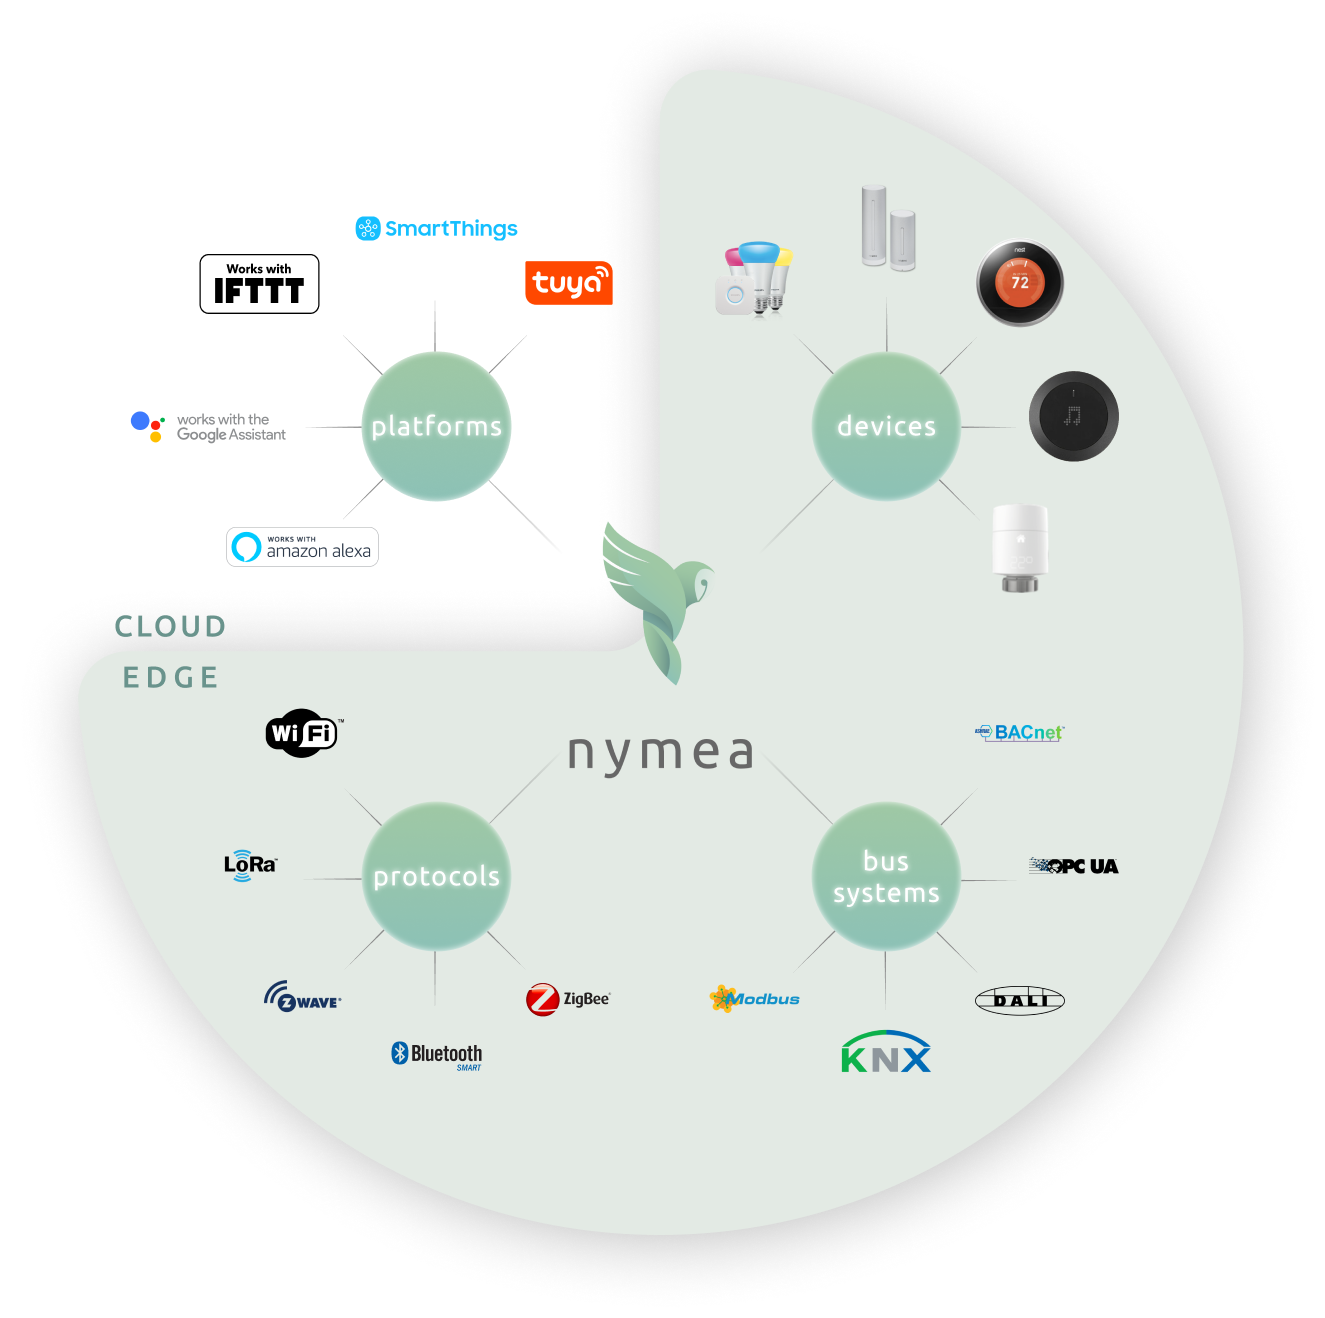
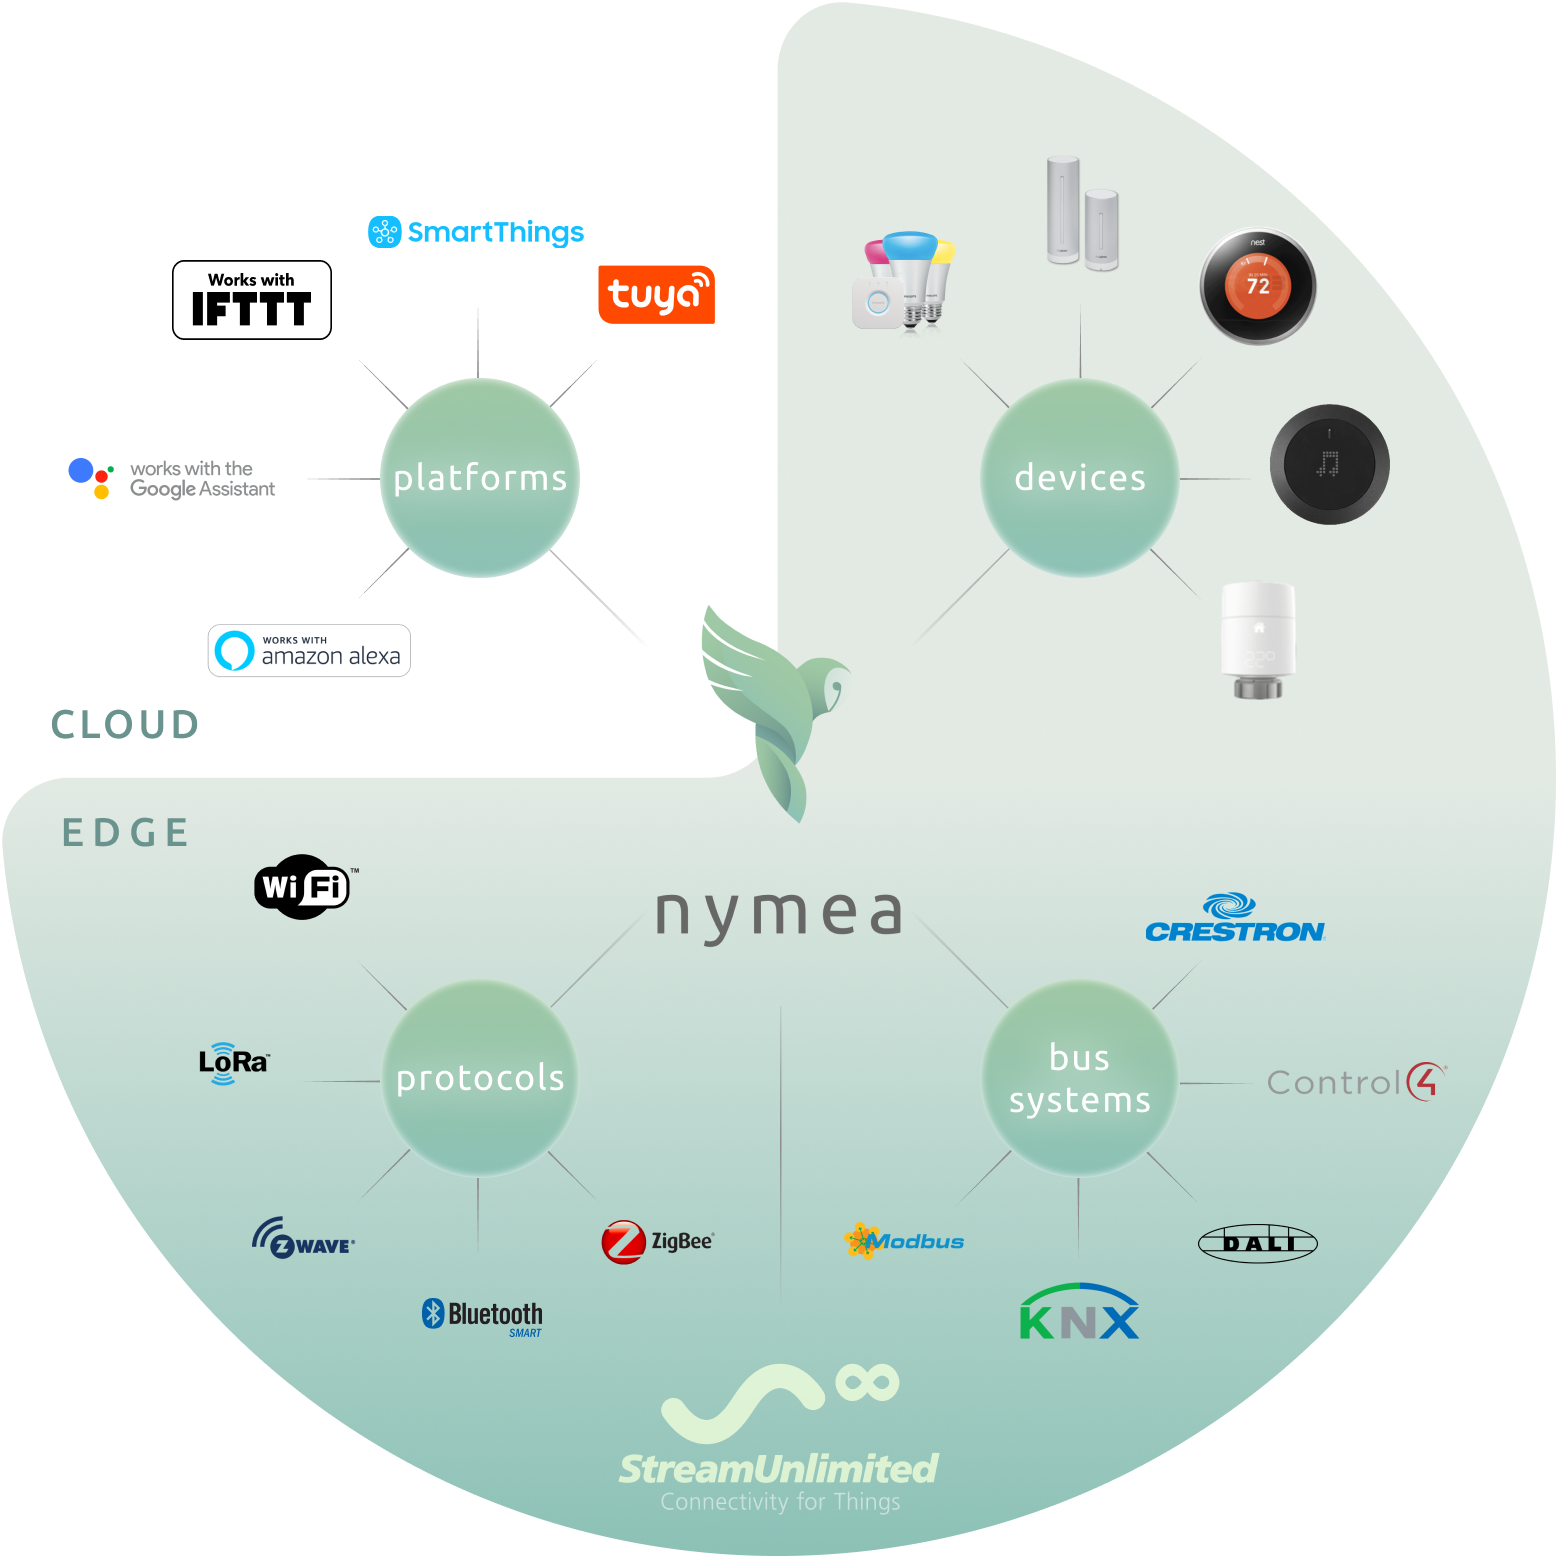
add the first version of the SUE page

diff --git a/src/pages/documentation/overview/sue.md b/src/pages/documentation/overview/sue.md
@@ -1,0 +1,33 @@
+---
+id: sue
+title: Nymea and StreamUnlimited
+---
+
+[StreamUnlimited](www.streamunlimited.com) and nymea teamed up in order to offer a world-class user experience with products that combine audio streaming and native voice assistants with nymea's powerful interoperability layer.
+Both software stacks seamlessly work together and enable the most sophisticated IoT products.
+
+<img src="/img/nymea-integrations.png" style="width:300px; float: center; margin-bottom: 0.5em; text-align: center; margin-right: 10px;">
+
+
+## Developer Kit
+
+If you ordered a StreamUnlimited Demo Kit + nymea demo package, you will find Smart Home Gadgets enclosed.
+[Here you find the QuickStart Guide](https://docs.google.com/document/d/1NOsyiHC8NJ_REj28t7IGnMiWcUcgGynAMqVAM9SJitk/edit?usp=sharing).
+You can order a Demo Kit at [sales@streamunlimited.com](mailto:sales@streamunlimited.com).
+We can show you a live demo and talk about details [in a meeting](www.nymea.io/meet).
+
+<p style="clear:both;"></p>
+
+
+## Demo Videos
+
+To get a feeling about this powerful combination, please head to our [Youtube Channel](www.youtube.com/c/nymea).
+
+<p style="clear:both;"></p>
+
+
+## FAQ
+
+Maybe open questions are already answered at the [FAQ](https://nymea.io/documentation/overview/faq) or in the [nymea Forum](forum.nymea.io).
+
+<p style="clear:both;"></p>
